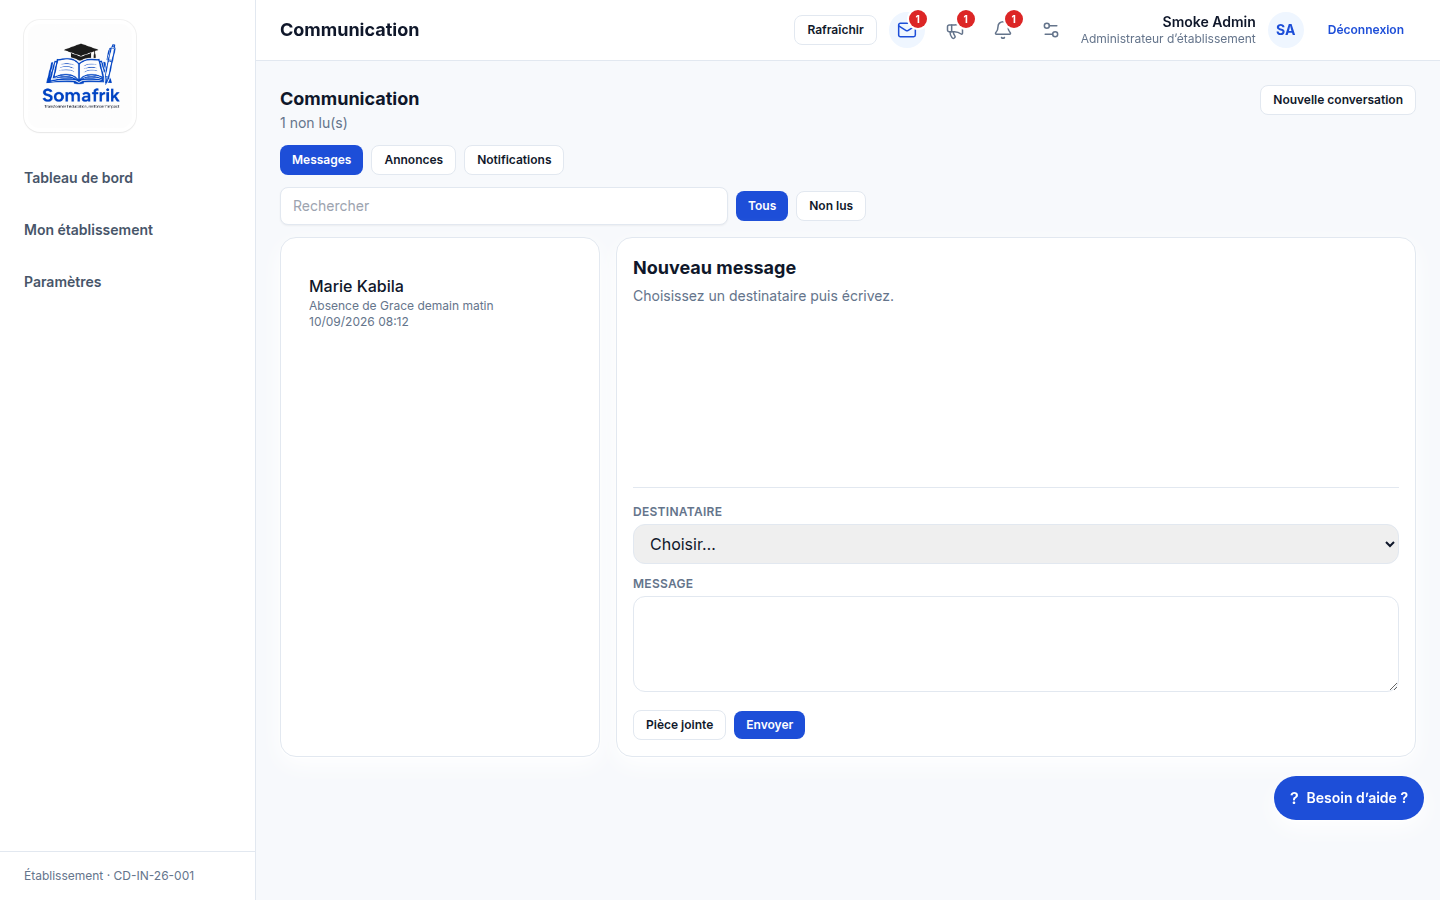
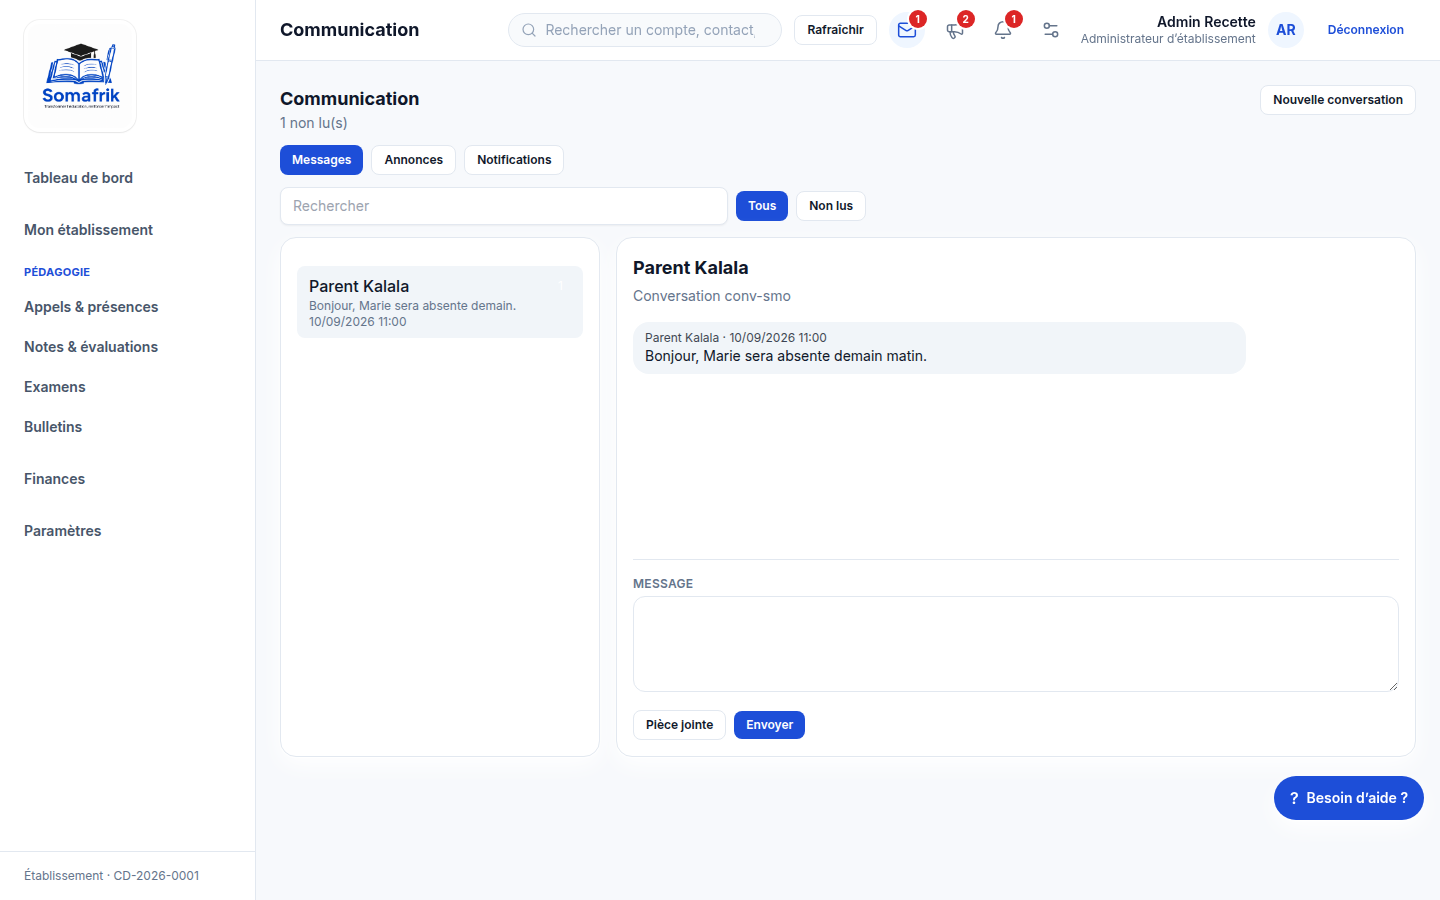
docs(communication): Expo 360/390 and Web 1440/1024 recette captures
Replace Vite 360/390 screenshots with Expo/React Native executions of the
production Communication screens, and recapture Web only at 1440 and 1024
with compact lists plus expanded/detail states.

diff --git a/Mobile/src/lib/communicationUxSmoke.ts b/Mobile/src/lib/communicationUxSmoke.ts
@@ -5,6 +5,7 @@
  */
 import type { LoginResponse } from "../services/api";
 import { getInternalRoleDefaults } from "./internalRoleDefaults";
+import * as SecureStore from "expo-secure-store";
 
 export const COMMUNICATION_UX_SMOKE_SCHOOL = "CD-2026-0001";
 export const COMMUNICATION_UX_SMOKE_USER_ID = "user-smoke-admin";
@@ -27,12 +28,14 @@ export function createCommunicationUxSmokeSession(): LoginResponse {
       role: "school_admin",
       schoolCode: COMMUNICATION_UX_SMOKE_SCHOOL,
       schoolPublicCode: COMMUNICATION_UX_SMOKE_SCHOOL,
+      schoolId: "11111111-1111-4111-8111-111111111111",
       permissions,
     },
     school: {
       code: COMMUNICATION_UX_SMOKE_SCHOOL,
       name: "École recette Communication",
       city: "Kinshasa",
+      id: "11111111-1111-4111-8111-111111111111",
     },
   };
 }
@@ -136,9 +139,24 @@ function pathnameOf(input: RequestInfo | URL) {
 
 let installed = false;
 
+function installCommunicationUxSmokeSecureStore() {
+  const memory = new Map<string, string>();
+  const patched = {
+    getItemAsync: async (key: string) => memory.get(key) ?? null,
+    setItemAsync: async (key: string, value: string) => {
+      memory.set(key, value);
+    },
+    deleteItemAsync: async (key: string) => {
+      memory.delete(key);
+    },
+  };
+  Object.assign(SecureStore, patched);
+}
+
 export function installCommunicationUxSmokeFetch() {
   if (installed || typeof fetch !== "function") return;
   installed = true;
+  installCommunicationUxSmokeSecureStore();
   const original = globalThis.fetch.bind(globalThis);
 
   globalThis.fetch = (async (input: RequestInfo | URL, init?: RequestInit) => {

diff --git a/docs/audits/parite-web-mobile-communication-green-2026-09-10.md b/docs/audits/parite-web-mobile-communication-green-2026-09-10.md
@@ -62,12 +62,14 @@ npm run test:parite-communication-red
 - **Mobile réel** : application Expo/React Native (`Mobile/src`, `npx expo start --web` + harnais `EXPO_PUBLIC_COMMUNICATION_UX_SMOKE=1`) à **360dp et 390dp**. Fichiers `communication_expo_*_{360,390}_*.png`.
 - Les PNG `communication_maquette_*` restent des **références UX**, pas une preuve d'exécution.
 - Interdit : présenter le Web Vite 360/390 comme preuve Mobile.
+- Pas d'émulateur Android/APK dans cet environnement : runtime Expo/RN (cible web), **mêmes sources** `Mobile/src/screens/{Messages,Announcements,InternalNotifications}Screen.tsx`.
 
 Commandes :
 
 ```bash
 npm run test:parite-communication-ux
 npx tsx Mobile/src/lib/announcementsPlatform.test.ts
+node scripts/capture-communication-ux.mjs
 ```
 
 ## P0 / P1 restants
